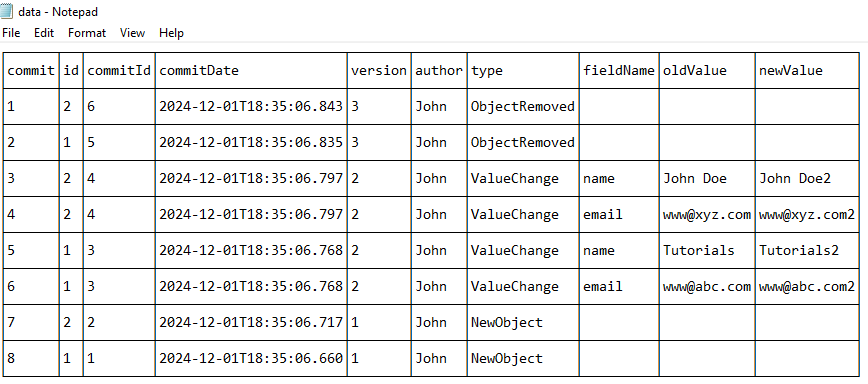
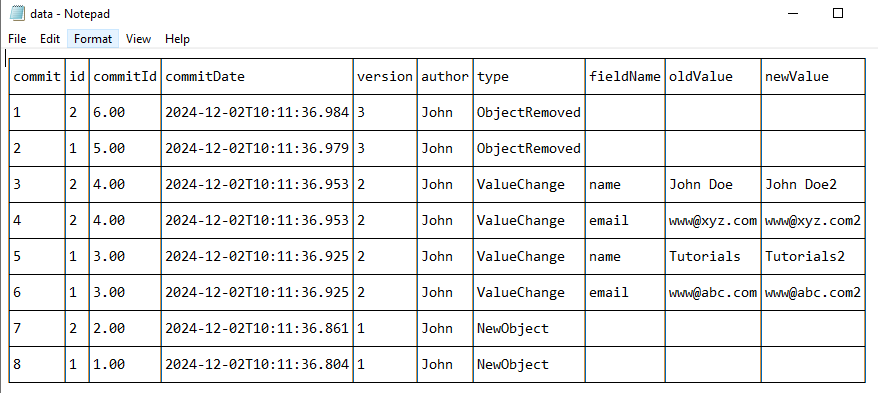
image

Changed region(s): [[0.0, 0.0, 0.9954, 1.0], [0.9332, 0.0312, 0.9643, 0.0625]]

diff --git a/README.md b/README.md
@@ -16,7 +16,7 @@
     JDBC URL: jdbc:h2:mem:audittable  
     SELECT * FROM JV_SNAPSHOT  
 
-### For direct DB audit data
+### For accessing audit data in DB (default mapping)
 
     SELECT commit_id,  version, g.local_id as "id",  author, type, state, changed_properties, managed_type, commit_date FROM jv_snapshot INNER JOIN jv_commit ON commit_pk = commit_fk INNER JOIN jv_global_id g ON g.global_id_pk = global_id_fk LEFT OUTER JOIN jv_global_id o ON o.global_id_pk = g.owner_id_fk WHERE 1 = 1 ORDER BY g.local_id
 
@@ -48,11 +48,11 @@ Run the endpoint `/audit/contactsPretty` first, and it will save for you your cu
 
 Default mapping
 
-![Image](src/main/resources/default-mapping.JPG)
+![Image](src/main/resources/default-mapping.PNG)
 
 Custom mapping
 
-![Image](src/main/resources/custom-mapping.JPG)
+![Image](src/main/resources/custom-mapping.PNG)
 
 Custom mapping to text file
 
